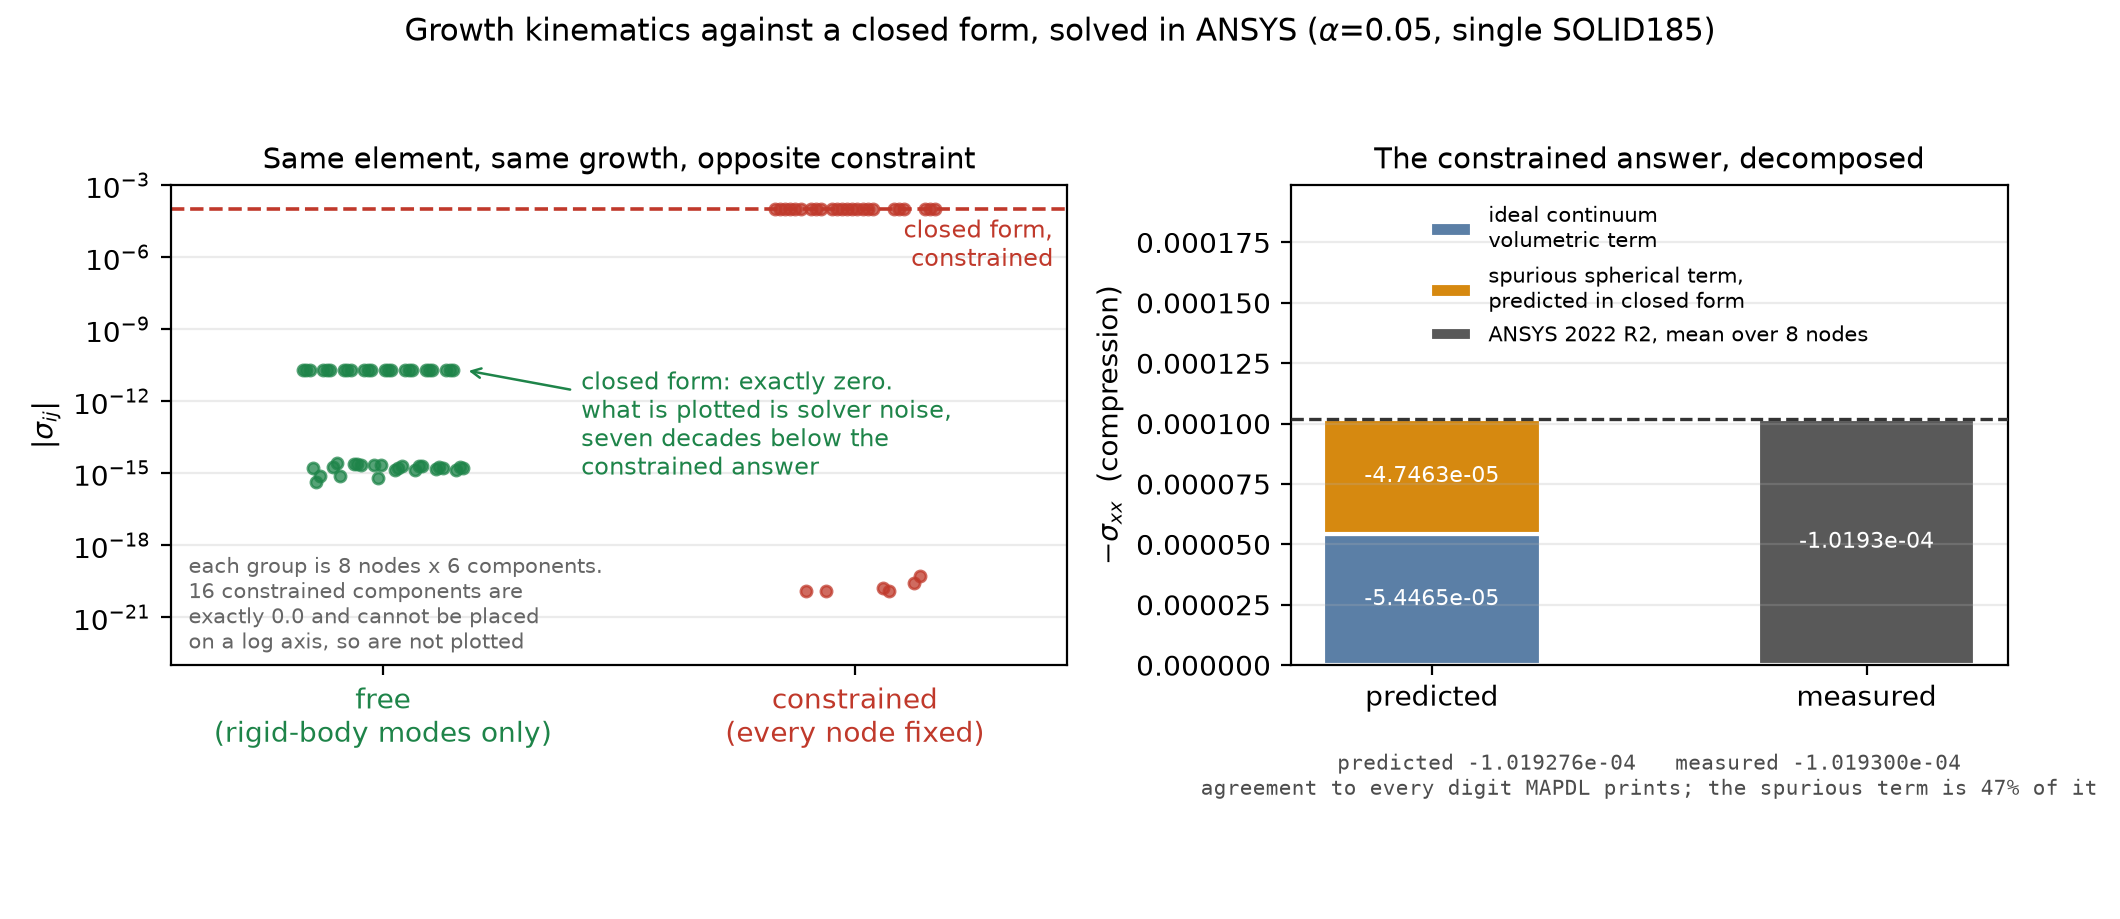
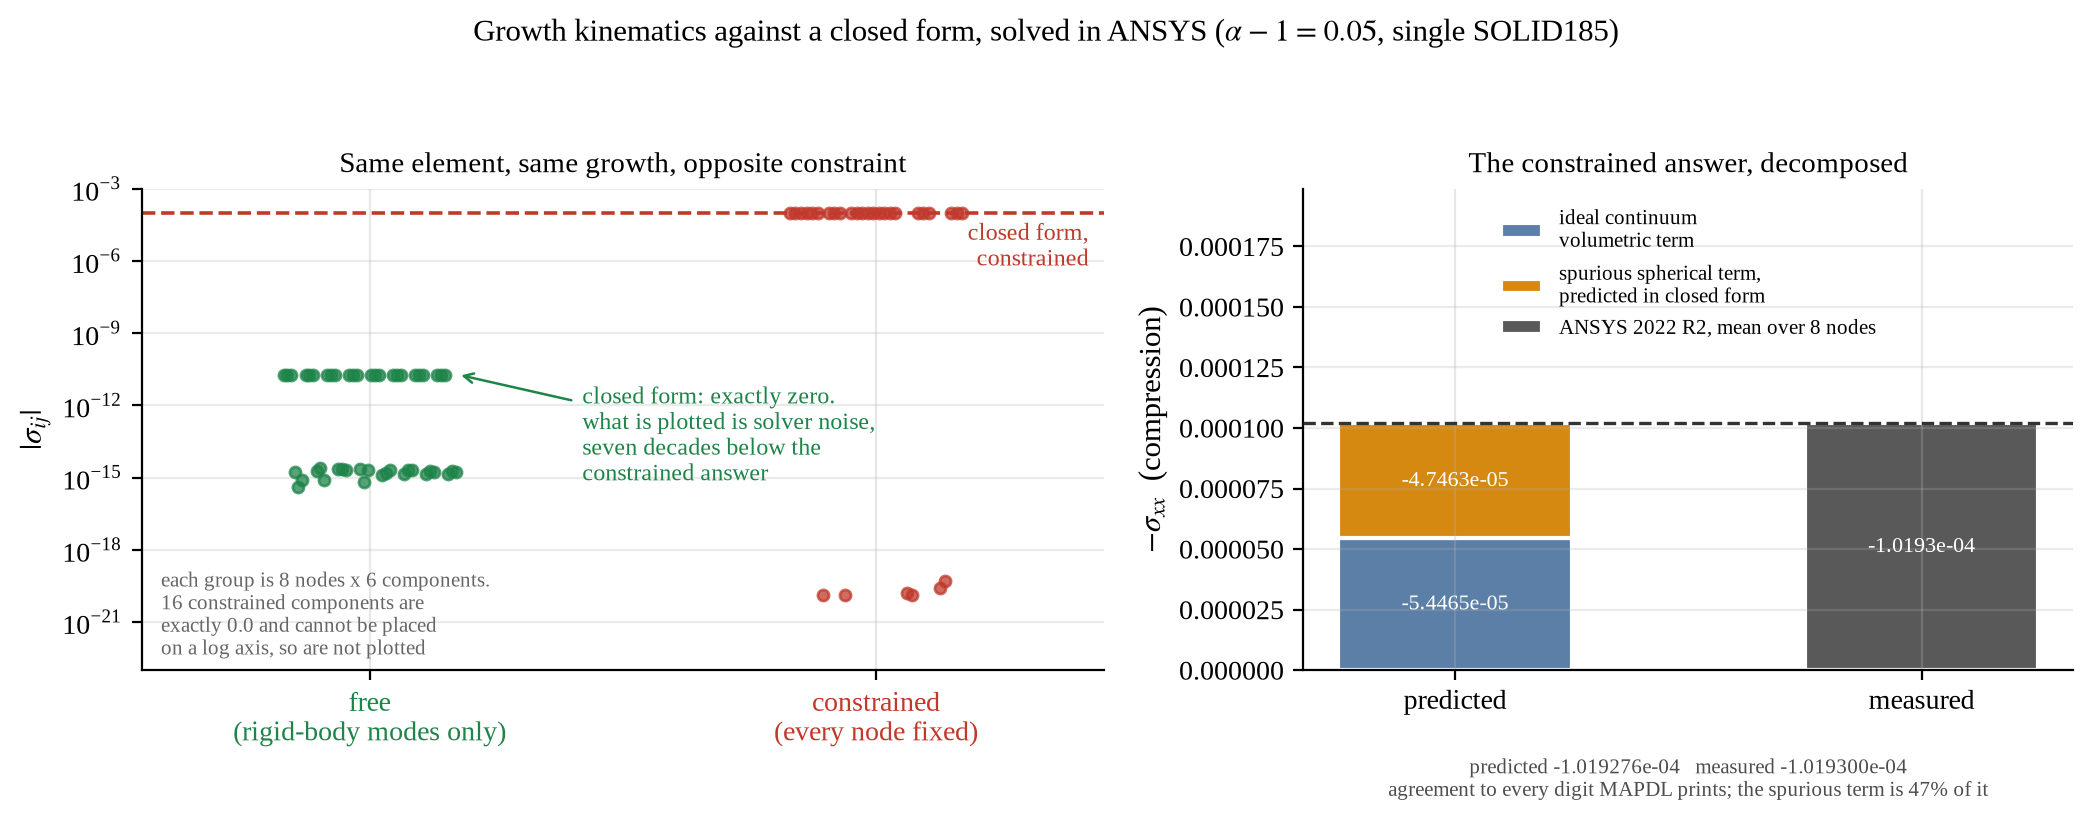
Figures: figstyle for the closed-form, convergence and cylinder plots; alpha - 1 in the title

diff --git a/ansys_usermat/apdl/plot_closed_form.py b/ansys_usermat/apdl/plot_closed_form.py
@@ -78,6 +78,9 @@ def plot(free, cons, out):
     import matplotlib
     matplotlib.use("Agg")
     import matplotlib.pyplot as plt
+    sys.path.insert(0, str(Path(__file__).resolve().parent.parent))
+    import figstyle
+    figstyle.apply(11)
     import numpy as np
 
     ideal = constrained_stress(ALPHA, D1)[0]
@@ -158,10 +161,10 @@ def plot(free, cons, out):
              f"agreement to every digit MAPDL prints; the spurious term is "
              f"{100 * spur / pred:.0f}% of it",
              transform=axR.transAxes, ha="center", va="top", fontsize=7.5,
-             color="0.3", family="monospace")
+             color="0.3")
 
     fig.suptitle("Growth kinematics against a closed form, solved in ANSYS "
-                 f"({ALPHA=}, single SOLID185)".replace("ALPHA=", r"$\alpha$="),
+                 f"($\\alpha-1={ALPHA:g}$, single SOLID185)",
                  fontsize=11)
     fig.tight_layout(rect=(0, 0.05, 1, 0.94))
     fig.savefig(out, dpi=200)

diff --git a/ansys_usermat/apdl/plot_convergence.py b/ansys_usermat/apdl/plot_convergence.py
@@ -85,6 +85,9 @@ def plot(substeps, out):
     import matplotlib
     matplotlib.use("Agg")
     import matplotlib.pyplot as plt
+    sys.path.insert(0, str(Path(__file__).resolve().parent.parent))
+    import figstyle
+    figstyle.apply(11)
 
     fig, (axL, axR) = plt.subplots(1, 2, figsize=(10.4, 4.3),
                                    gridspec_kw={"width_ratios": [1.45, 1]})
@@ -139,7 +142,7 @@ def plot(substeps, out):
 
     cum = substeps[-1]["cum_iter"]
     fig.suptitle(f"Newton convergence, 12240 elements, delivered routine "
-                 f"-- load step finished in {len(substeps)} substeps, "
+                 f": load step finished in {len(substeps)} substeps, "
                  f"{cum} cumulative iterations", fontsize=11)
     fig.tight_layout(rect=(0, 0, 1, 0.94))
     fig.savefig(out, dpi=200)

diff --git a/ansys_usermat/apdl/plot_cylinder_alpha_sweep.py b/ansys_usermat/apdl/plot_cylinder_alpha_sweep.py
@@ -47,6 +47,9 @@ def main(argv=None):
     import matplotlib
     matplotlib.use("Agg")
     import matplotlib.pyplot as plt
+    sys.path.insert(0, str(Path(__file__).resolve().parent.parent))
+    import figstyle
+    figstyle.apply(11)
     plt.rcParams.update({"font.size": 9, "axes.edgecolor": INK2,
                          "axes.labelcolor": INK, "xtick.color": INK2,
                          "ytick.color": INK2})
